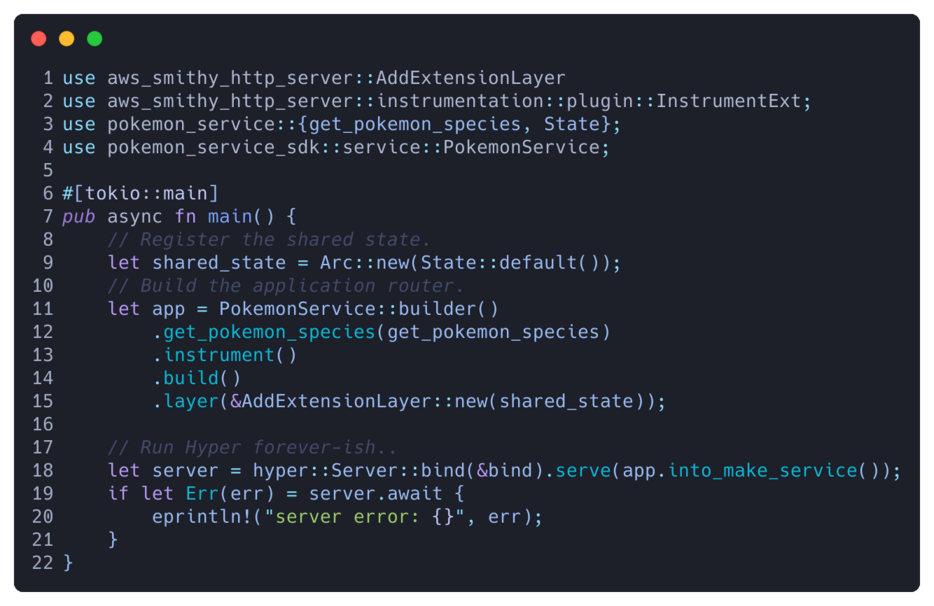
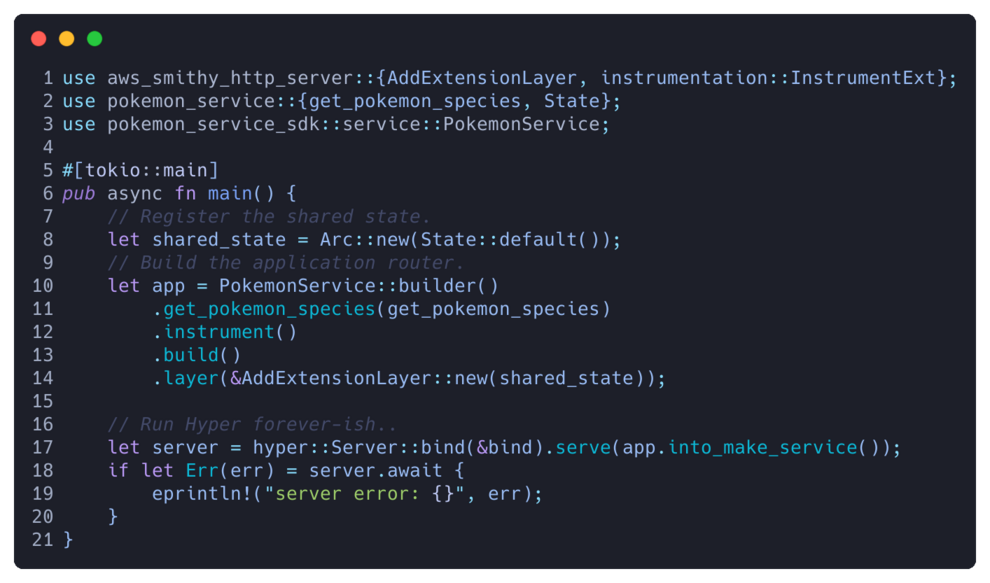
Add tracing slide

diff --git a/docs/slides/slides.html b/docs/slides/slides.html
@@ -144,6 +144,24 @@
 </section>
 </foreignObject></svg><svg data-marpit-svg="" viewBox="0 0 1280 720"><foreignObject width="1280" height="720"><section id="17" data-paginate="true" data-background-image="url('https://marp.app/assets/hero-background.svg')" data-theme="uncover" data-marpit-pagination="17" data-marpit-pagination-total="22" style="--paginate:true;--background-image:url('https://marp.app/assets/hero-background.svg');--theme:uncover;background-image:url('https://marp.app/assets/hero-background.svg');background-position:center;background-repeat:no-repeat;background-size:cover;">
 <h2>Service tracing</h2>
+<pre is="marp-pre" data-auto-scaling="downscale-only"><code class="language-bash">❯❯❯ RUST_LOG=aws_smithy_http_server=debug,pokemon_service=debug pokemon-service
+
+2022-10-24T21:33:25.369093Z DEBUG request{
+    operation=org.crisidev<span class="hljs-comment">#GetPokemonSpecies</span>
+    method=GET
+    uri=https://localhost:13734/pokemon-species/pikachu
+    headers={<span class="hljs-string">&quot;user-agent&quot;</span>: <span class="hljs-string">&quot;curl/7.68.0&quot;</span>, <span class="hljs-string">&quot;accept&quot;</span>: <span class="hljs-string">&quot;application/json&quot;</span>}
+}: pokemon_service: 40: Requested Pokémon is pikachu
+
+2022-10-24T21:33:25.369436Z DEBUG request{
+    operation=org.crisidev<span class="hljs-comment">#GetPokemonSpecies</span>
+    method=GET
+    uri=https://localhost:13734/pokemon-species/pikachu
+    headers={<span class="hljs-string">&quot;user-agent&quot;</span>: <span class="hljs-string">&quot;curl/7.68.0&quot;</span>, <span class="hljs-string">&quot;accept&quot;</span>: <span class="hljs-string">&quot;application/json&quot;</span>}
+}: aws_smithy_http_server::instrumentation::service: 47: response
+    headers={<span class="hljs-string">&quot;content-type&quot;</span>: <span class="hljs-string">&quot;application/json&quot;</span>, <span class="hljs-string">&quot;content-length&quot;</span>: <span class="hljs-string">&quot;573&quot;</span>}
+    status_code=200 OK
+</code></pre>
 </section>
 </foreignObject></svg><svg data-marpit-svg="" viewBox="0 0 1280 720"><foreignObject width="1280" height="720"><section data-marpit-fragments="6" data-paginate="true" data-background-image="url('https://marp.app/assets/hero-background.svg')" data-theme="uncover" data-marpit-pagination="18" data-marpit-pagination-total="22" style="--paginate:true;--background-image:url('https://marp.app/assets/hero-background.svg');--theme:uncover;background-image:url('https://marp.app/assets/hero-background.svg');background-position:center;background-repeat:no-repeat;background-size:cover;--marpit-advanced-background-split:33%;" data-marpit-advanced-background="background" data-marpit-advanced-background-split="left"><div data-marpit-advanced-background-container="true" data-marpit-advanced-background-direction="horizontal"><figure style="background-image:url(&quot;assets/python.png&quot;);"></figure></div></section></foreignObject><foreignObject width="67%" height="720" x="33%"><section id="18" data-marpit-fragments="6" data-paginate="true" data-background-image="url('https://marp.app/assets/hero-background.svg')" data-theme="uncover" data-marpit-pagination="18" data-marpit-pagination-total="22" style="--paginate:true;--background-image:url('https://marp.app/assets/hero-background.svg');--theme:uncover;background-image:url('https://marp.app/assets/hero-background.svg');background-position:center;background-repeat:no-repeat;background-size:cover;--marpit-advanced-background-split:33%;" data-marpit-advanced-background="content" data-marpit-advanced-background-split="left">
 <h2>Bonus</h2>

diff --git a/docs/slides/assets/run_with_hyper.rs b/docs/slides/assets/run_with_hyper.rs
@@ -1,5 +1,4 @@
-use aws_smithy_http_server::AddExtensionLayer
-use aws_smithy_http_server::instrumentation::plugin::InstrumentExt;
+use aws_smithy_http_server::{AddExtensionLayer, instrumentation::InstrumentExt};
 use pokemon_service::{get_pokemon_species, State};
 use pokemon_service_sdk::service::PokemonService;
 

diff --git a/docs/slides/slides.md b/docs/slides/slides.md
@@ -181,6 +181,26 @@ Generate the server and client SDK crates:
 
 ## Service tracing
 
+```bash
+❯❯❯ RUST_LOG=aws_smithy_http_server=debug,pokemon_service=debug pokemon-service
+
+2022-10-24T21:33:25.369093Z DEBUG request{
+    operation=org.crisidev#GetPokemonSpecies
+    method=GET
+    uri=https://localhost:13734/pokemon-species/pikachu
+    headers={"user-agent": "curl/7.68.0", "accept": "application/json"}
+}: pokemon_service: 40: Requested Pokémon is pikachu
+
+2022-10-24T21:33:25.369436Z DEBUG request{
+    operation=org.crisidev#GetPokemonSpecies
+    method=GET
+    uri=https://localhost:13734/pokemon-species/pikachu
+    headers={"user-agent": "curl/7.68.0", "accept": "application/json"}
+}: aws_smithy_http_server::instrumentation::service: 47: response
+    headers={"content-type": "application/json", "content-length": "573"}
+    status_code=200 OK
+```
+
 ---
 
 ![bg left:33%](assets/python.png)
